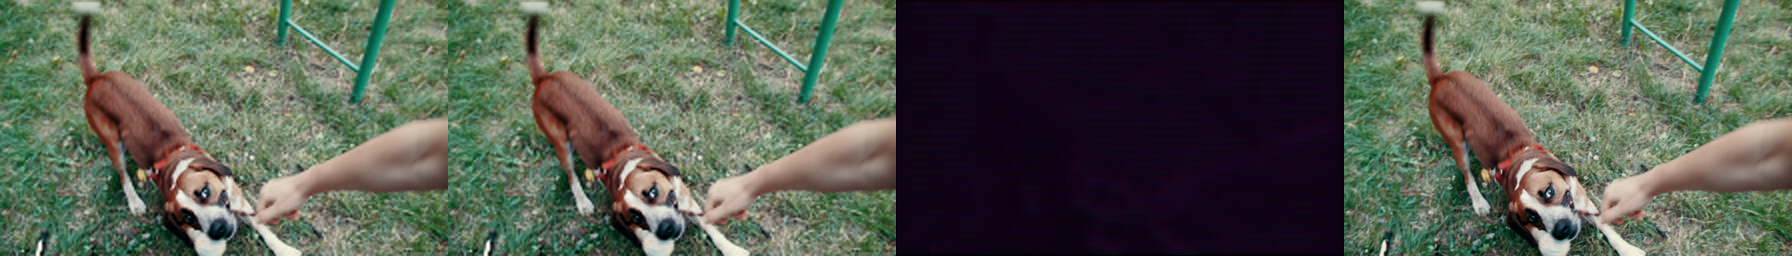
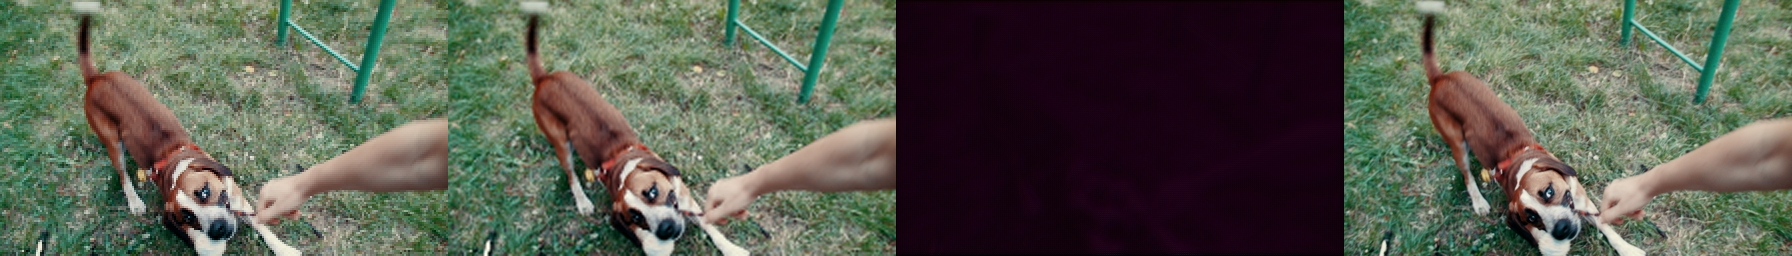
Add nearest center interpolation

diff --git a/eval.py b/eval.py
@@ -48,6 +48,10 @@ def _bicubic_center(lr: torch.Tensor, hr_size: Tuple[int, int]) -> torch.Tensor:
     center = lr[:, lr.shape[1] // 2]
     return F.interpolate(center, size=hr_size, mode="bicubic", align_corners=False)
 
+def _nearest_center(lr: torch.Tensor, hr_size: Tuple[int, int]) -> torch.Tensor:
+    center = lr[:, lr.shape[1] // 2]
+    return F.interpolate(center, size=hr_size, mode="nearest")
+
 
 def _compose_strip(lr_up: torch.Tensor, bicubic: torch.Tensor, pred: torch.Tensor, hr: torch.Tensor) -> np.ndarray:
     panels = [_to_uint8_hwc(x) for x in [lr_up, bicubic, pred, hr]]
@@ -142,6 +146,7 @@ def main() -> None:
 
         hr_size = (hr.shape[-2], hr.shape[-1])
         bicubic = _bicubic_center(lr, hr_size).clamp(0.0, 1.0)
+        lr_up = _nearest_center(lr, hr_size).clamp(0.0, 1.0)
 
         if use_bicubic:
             pred = bicubic
@@ -158,8 +163,12 @@ def main() -> None:
         frame_name = batch["frame_name"][0]
         temporal_buckets[seq_id].append((frame_name, pred[0].detach().cpu()))
 
-        lr_up = bicubic[0].detach().cpu()
-        strip = _compose_strip(lr_up, bicubic[0].detach().cpu(), pred[0].detach().cpu(), hr[0].detach().cpu())
+        strip = _compose_strip(
+            lr_up[0].detach().cpu(),
+            bicubic[0].detach().cpu(),
+            pred[0].detach().cpu(),
+            hr[0].detach().cpu(),
+        )
 
         if idx < args.save_images:
             from PIL import Image

diff --git a/results/smoke/tables/smoke_temporal_2x_100_eval.md b/results/smoke/tables/smoke_temporal_2x_100_eval.md
@@ -1,0 +1,8 @@
+| metric | value |
+| --- | --- |
+| diff_energy | 0.0126 |
+| psnr_rgb | 20.5848 |
+| psnr_y | 24.2948 |
+| ssim_rgb | 0.5326 |
+| ssim_y | 0.6717 |
+| tpsnr | 34.8311 |